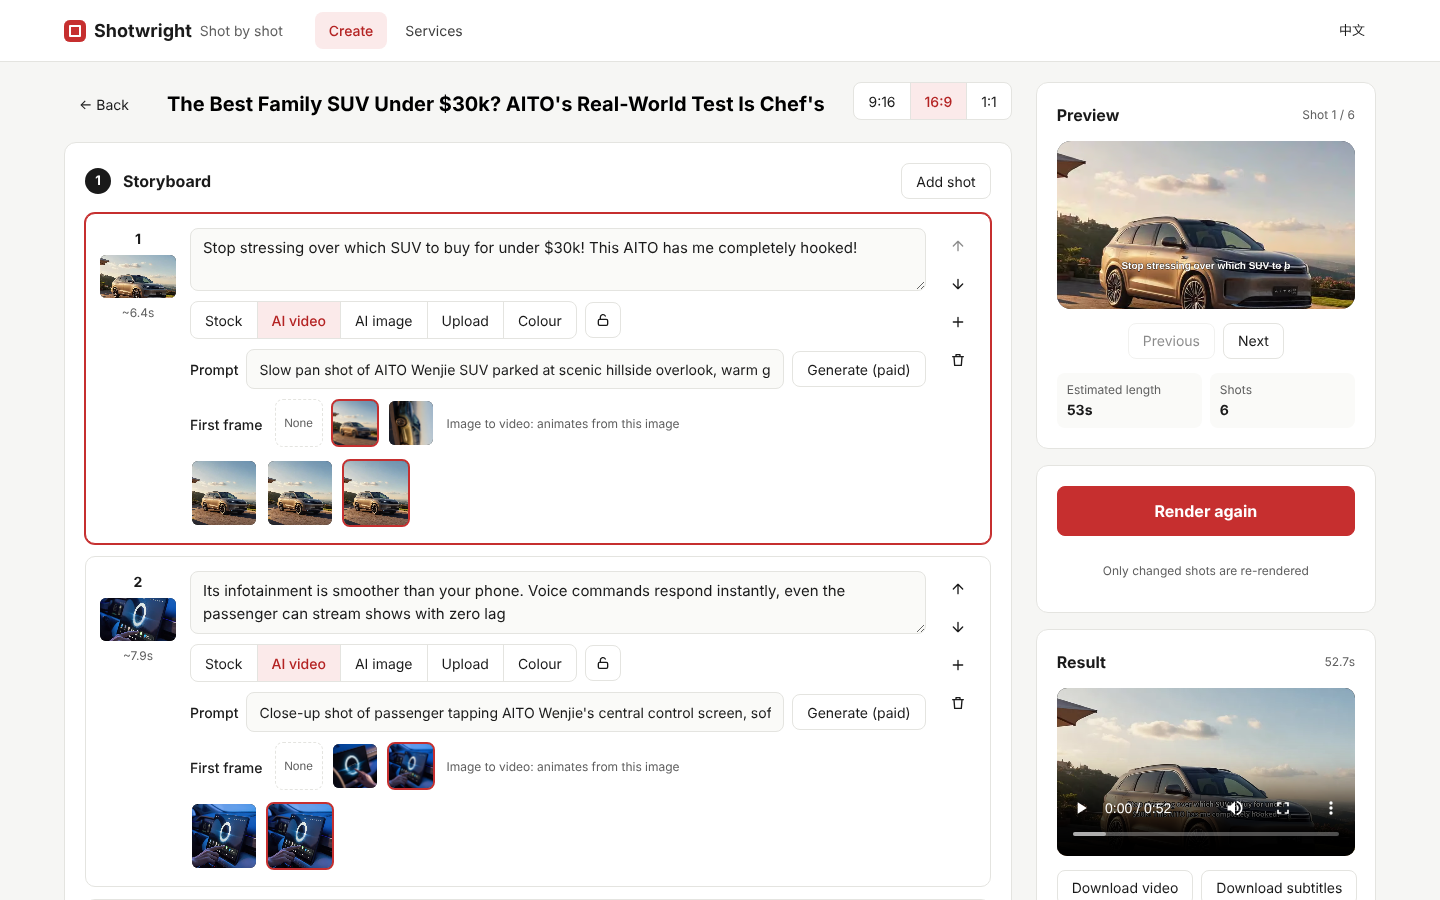
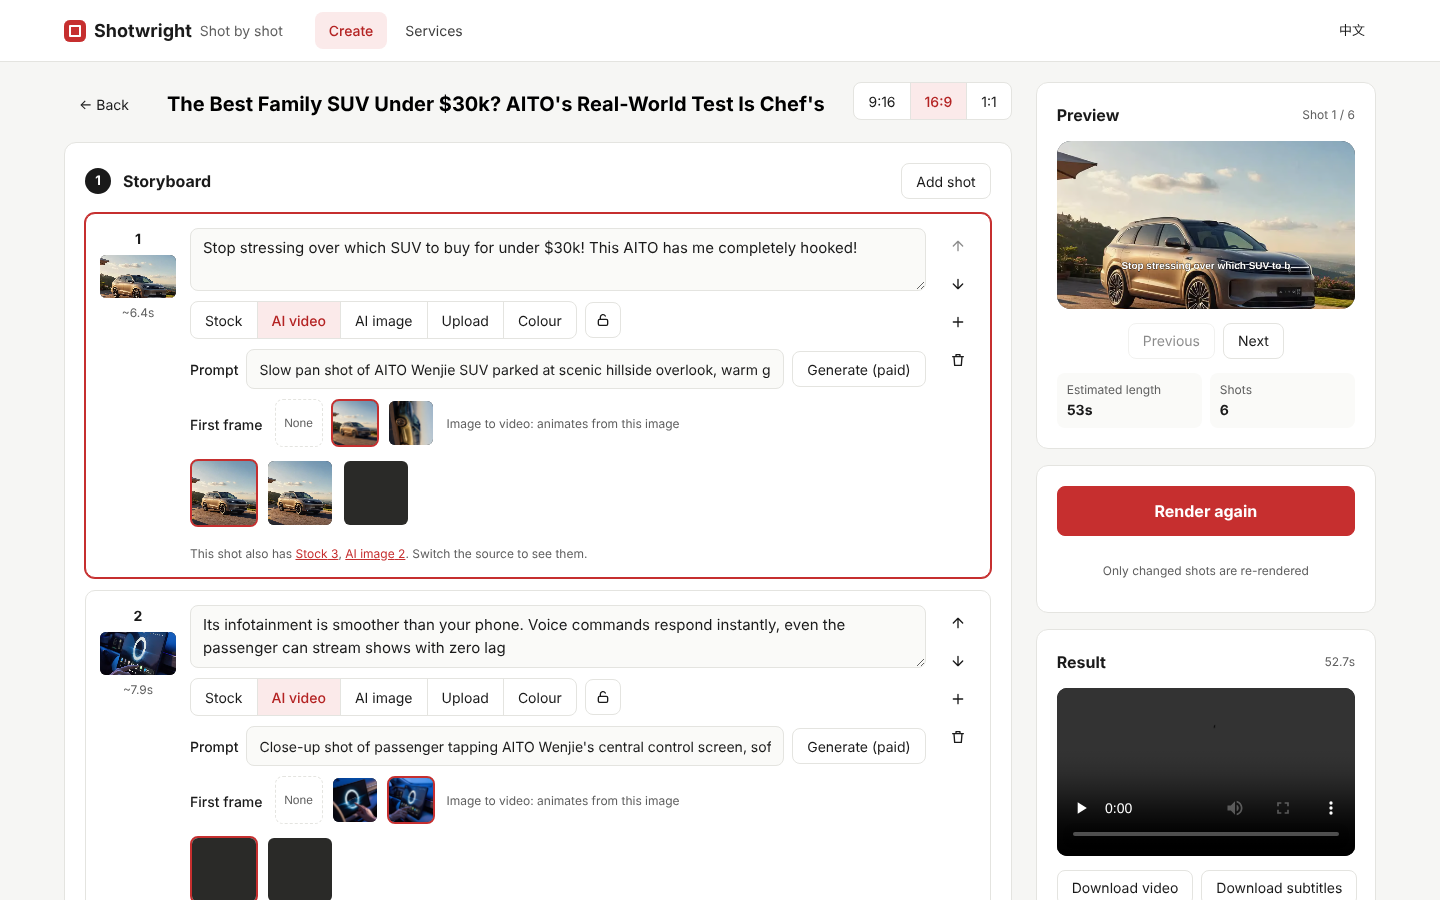
README：补充背景音乐检索、素材分目录和候选提示，更新截图
- 功能：新增背景音乐（上传或自动检索）、素材按来源分目录两条；
  画面混用补充「其他来源还有几个候选」提示
- 配置：说明背景音乐默认用 Internet Archive，提醒授权不一、发布前确认
- 截图：重拍中英文四张，声音截图展示背景音乐候选，镜头截图展示来源提示
- config.example.toml 增加 [providers.music.archive] 小节

diff --git a/README.en.md b/README.en.md
@@ -2,7 +2,7 @@
 
 [简体中文](README.md) | English
 
-**From a video brief to a finished video: AI writes the script, each shot gets generated or stock footage, voice-over and subtitles are added automatically, and every shot can be adjusted on its own.**
+**From a video brief to a finished video: AI writes the script, each shot gets generated or stock footage, voice-over, subtitles and background music are added automatically, and every shot can be adjusted on its own.**
 
 Shotwright is built around the *shot*. The script is split into shots, and each shot picks its own visual source (stock search, AI generation, or your own uploaded image or video). Any shot can be replaced, locked or redone by itself. Change one shot and only that shot is re-rendered, plus the final assembly.
 
@@ -11,12 +11,14 @@ Shotwright is built around the *shot*. The script is split into shots, and each 
 ## Features
 
 - **Storyboard editing**: split a script into shots sentence by sentence, or write a video brief (audience, tone, key points; up to 4096 bytes), pick a length, and let an LLM write the script, decide how many shots it needs, and suggest search terms and visual prompts for each shot.
-- **Mixed visuals**: in one video, some shots can use Pixabay / Pexels footage, some AI video (Seedance) or AI images (Seedream with a slow Ken Burns push-in), and some your own uploads. An AI image can also serve as the first frame of an AI video.
+- **Mixed visuals**: in one video, some shots can use Pixabay / Pexels footage, some AI video (Seedance) or AI images (Seedream with a slow Ken Burns push-in), and some your own uploads. An AI image can also serve as the first frame of an AI video. Under each shot, a hint shows how many candidates the other sources have, with one click to switch, so switching sources never loses footage you already generated.
 - **Charge confirmation**: every paid generation must be confirmed in the UI before it is submitted. If the result of a submission can't be confirmed, it is never retried automatically, so you are never charged twice.
 - **Incremental rendering**: each stage is fingerprinted by its inputs and cached, so unchanged shots are reused. Renders can be cancelled at any time.
 - **Voice-over and subtitles**: free Edge online voices; subtitles wrap by real font width with balanced line lengths.
+- **Background music**: upload your own, or find it in one click: an LLM turns the brief and the shots into music-style search terms, candidates come from Internet Archive (no key needed), you can preview and switch them, and the track loops to the length of the video.
 - **Three ways in**: web UI, REST API (`/api/v2`) and CLI, all sharing the same services and render queue.
 - **Multilingual**: videos can be in 16 languages, including Chinese, English, Japanese, Korean and Spanish, with a matching voice and subtitle font picked automatically. One click translates a video into another language version (visuals are shared; only the script, voice and subtitles change). The web UI switches between 中文 and English.
+- **Assets sorted by source**: project assets live in `ai-video`, `ai-image`, `stock`, `upload` and similar folders; older projects are sorted automatically at startup.
 - **Logs**: `storage/logs/shotwright.log` records the model, task id and result of every paid task, plus each generation and render. Logs rotate daily, are kept for 14 days, and API keys are masked.
 - **Works offline**: with no services configured it still runs end to end (silent voice-over and solid-color frames), handy for tuning storyboard pacing first.
 
@@ -30,11 +32,11 @@ Shotwright is built around the *shot*. The script is split into shots, and each 
 
 ![Storyboard editor](docs/images/en-editor.png)
 
-**Mixed visuals in one video**: the upper shot uses stock footage, the lower one an AI image.
+**Mixed visuals in one video**: the upper shot uses stock footage, the lower one an AI image; under each shot a hint shows how many candidates the other sources have, one click to switch.
 
 ![Stock search and AI image](docs/images/en-shots.png)
 
-**Audio, subtitles and language versions**: switch the video language, voice and background music, and translate the video into another language in one click.
+**Audio, subtitles and language versions**: switch the video language and voice; upload background music or find it automatically and preview the candidates; translate the video into another language in one click.
 
 ![Audio, subtitles and language versions](docs/images/en-audio.png)
 
@@ -100,6 +102,8 @@ SHOTWRIGHT_LLM_DEEPSEEK_API_KEY=sk-xxxx
 ```
 
 Four LLM presets are built in: Doubao Seed, DeepSeek, Kimi and Qwen. Pick one and fill in its API key. Any other OpenAI-compatible API can be set up in the `openai` section with your own base URL and model.
+
+Background music search uses Internet Archive by default and needs no key. **Licences on Internet Archive vary**: some tracks forbid commercial use or adaptation (for example CC BY-NC-ND), and some carry no licence at all. Each track's author, licence and source page are saved in the project's asset info; check the licence before you publish. To play it safe, restrict the search to a collection with clear licences via `collection` under `[providers.music.archive]`, or upload your own music.
 
 AI video (Seedance) and AI images (Seedream) run on Volcengine Ark, the same platform as Doubao. Once the key in `[providers.llm.doubao]` is filled in and the models are enabled in the Ark console, they work without entering the key again.
 
